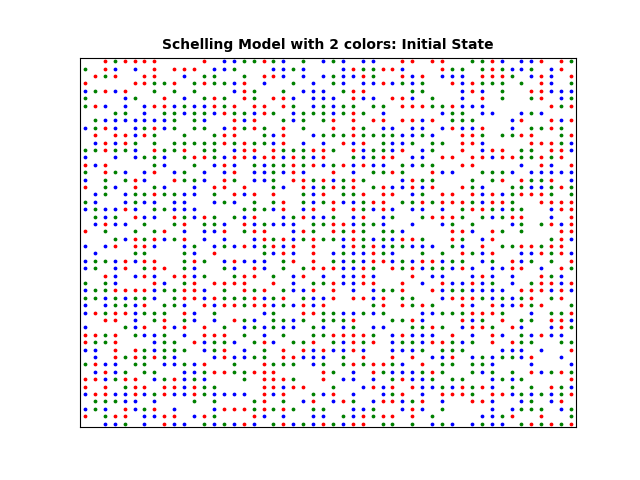
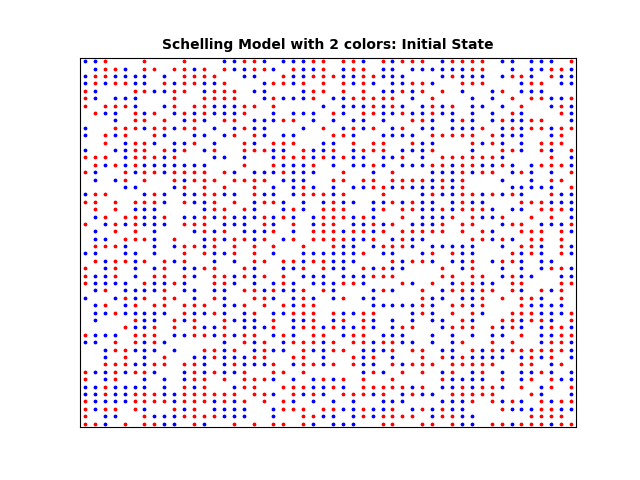
Fixed plots to have multiple colors and just 2 colors

Changed region(s): [[0.125, 0.125, 0.9062, 0.9062]]

diff --git a/Segregation.py b/Segregation.py
@@ -24,28 +24,26 @@ class Schelling:
         self.n_iterations = n_iterations
 
     def populate(self):
-        self.empty_houses = []
-        self.agents = {}
-        print("Populate ", self.width, self.height)
-        self.all_houses = list(itertools.product(range(self.width), range(self.height)))
-        print(self.all_houses)
-        random.shuffle(self.all_houses)
+            self.empty_houses = []
+            self.agents = {}
+            print("Populate ", self.width, self.height)
+            self.all_houses = list(itertools.product(range(self.width), range(self.height)))
+            print(self.all_houses)
+            random.shuffle(self.all_houses)
 
-        self.n_empty = int(self.empty_ratio * len(self.all_houses))
-        self.empty_houses = self.all_houses[:self.n_empty]
+            self.n_empty = int(self.empty_ratio * len(self.all_houses))
+            self.empty_houses = self.all_houses[:self.n_empty]
 
-        self.remaining_houses = self.all_houses[self.n_empty:]
-        houses_by_color = [self.remaining_houses[i::self.colors] for i in range(self.colors)]
-        print("Houses by color ", houses_by_color[0])
-        for i in range(self.colors):
-            # create agents for each color
-            dict2 = dict(zip(houses_by_color[i], [i + 1] * len(houses_by_color[i])))
-            self.agents = {**self.agents, **dict2}
-        print("dictionary", self.agents)
+            self.remaining_houses = self.all_houses[self.n_empty:]
+            houses_by_color = [self.remaining_houses[i::self.colors] for i in range(self.colors)]
+            print("Houses by color ", houses_by_color[0])
+            for i in range(self.colors):
+                # create agents for each color
+                dict2 = dict(zip(houses_by_color[i], [i + 1] * len(houses_by_color[i])))
+                self.agents = {**self.agents, **dict2}
+            print("dictionary", self.agents)
 
     def is_unsatisfied(self, x, y):
-        if (x, y) not in self.agents:
-            return False
 
         myColor = self.agents[(x, y)]
         count_similar = 0
@@ -97,91 +95,26 @@ class Schelling:
             return False
         else:
             return float(count_similar) / (count_similar + count_different) < color_threshold
-
-    def get_neighbors(self, x, y):
-        neighbors = [
-            (x - 1, y - 1), (x, y - 1), (x + 1, y - 1),
-            (x - 1, y),                 (x + 1, y),
-            (x - 1, y + 1), (x, y + 1), (x + 1, y + 1)
-        ]
-
-        return [(nx, ny) for nx, ny in neighbors if 0 <= nx < self.width and 0 <= ny < self.height]
-
-    def try_location_swap(self, agent1, agent2):
-        x1, y1 = agent1
-        x2, y2 = agent2
-        color1 = self.agents[agent1]
-        color2 = self.agents[agent2]
-
-        # Check if swapping is beneficial for both agents
-        similarity_before = self.calculate_similarity(x1, y1)
-        similarity_before += self.calculate_similarity(x2, y2)
-
-        # Swap the agents
-        self.agents[agent1] = color2
-        self.agents[agent2] = color1
-
-        # Check if swapping is beneficial for both agents after the swap
-        similarity_after = self.calculate_similarity(x1, y1)
-        similarity_after += self.calculate_similarity(x2, y2)
-
-        # If swapping is not beneficial for both agents, revert the swap
-        if similarity_after < similarity_before:
-            self.agents[agent1] = color1
-            self.agents[agent2] = color2
-
     
-    def move_locations(self, similarity_threshold=1e-3, consecutive_iterations_threshold=2, max_swap_attempts=10):
+    def move_locations(self):
         total_distance = 0
-        prev_similarity = 0.0
-        consecutive_iterations = 0
-        
-
         for i in range(self.n_iterations):
             self.old_agents = copy.deepcopy(self.agents)
             n_changes = 0
             for agent in self.old_agents:
-                swap_attempts = 0
-
-                while swap_attempts < max_swap_attempts and self.is_unsatisfied(agent[0], agent[1]):
+                if self.is_unsatisfied(agent[0], agent[1]):
                     agent_color = self.agents[agent]
                     empty_house = random.choice(self.empty_houses)
-
-                    # Try to improve current location by swapping with another agent
-                    neighbors = self.get_neighbors(agent[0], agent[1])
-                    for neighbor in neighbors:
-                        if self.is_unsatisfied(neighbor[0], neighbor[1]):
-                            self.try_location_swap(agent, neighbor)
-                            n_changes += 1
-                            break  # Break after the first successful swap
-
-                    # If no improvement, move to an empty house
-                    if agent in self.agents:
-                        del self.agents[agent]
                     self.agents[empty_house] = agent_color
+                    del self.agents[agent]
                     self.empty_houses.remove(empty_house)
                     self.empty_houses.append(agent)
                     total_distance += abs(empty_house[0] - agent[0]) + abs(empty_house[1] - agent[1])
                     n_changes += 1
 
-                    swap_attempts += 1
-
-            similarity_percentage = self.calculate_similarity(agent[0], agent[1]) * 100
+            similarity_percentage = self.calculate_similarity() * 100
             print('Iteration: %d, Similarity Percentage: %3.2f%%, Number of changes: %d, total distance: %d' % (
                 i + 1, similarity_percentage, n_changes, total_distance))
-
-            # Stopping condition based on little progress
-            similarity_change = abs(similarity_percentage - prev_similarity)
-            if similarity_change < similarity_threshold:
-                consecutive_iterations += 1
-            else:
-                consecutive_iterations = 0
-
-            if consecutive_iterations >= consecutive_iterations_threshold:
-                print(f'Stopping early. Little progress for {consecutive_iterations_threshold} consecutive iterations.')
-                break
-
-            prev_similarity = similarity_percentage
 
             if n_changes == 0:
                 break
@@ -189,12 +122,11 @@ class Schelling:
 
     def plot(self, title, file_name):
         fig, ax = plt.subplots()
-        agent_colors = {
-            1: 'b', 2: 'r', 3: 'g', 4: 'c', 5: 'm', 6: 'y', 7: 'k', 8: 'orange', 9: 'purple'  # Add more colors here
-        }
-        marker_size = 150 / self.width
+        # If you want to run the simulation with more than 7 colors, you should set agent_colors accordingly
+        agent_colors = {1: 'b', 2: 'r', 3: 'g', 4: 'c', 5: 'm', 6: 'y', 7: 'k', 8: 'orange', 9: 'purple'}
+        marker_size = 150/self.width  # no logic here, I just played around with it
         for agent in self.agents:
-            ax.scatter(agent[0] + 0.5, agent[1] + 0.5, s=marker_size, color=agent_colors[self.agents[agent]])
+            ax.scatter(agent[0] + 0.5, agent[1] + 0.5,s=marker_size, color=agent_colors[self.agents[agent]])
 
         ax.set_title(title, fontsize=10, fontweight='bold')
         ax.set_xlim([0, self.width])
@@ -203,81 +135,94 @@ class Schelling:
         ax.set_yticks([])
         plt.savefig(file_name)
 
-    def calculate_similarity(self, x, y):
-        count_similar = 0
-        count_different = 0
-        color = self.agents.get((x, y))
-
-        if color is not None:
-            for (agent_x, agent_y), agent_color in self.agents.items():
-                if (agent_x, agent_y) != (x, y):
-                    if (agent_x - 1, agent_y - 1) not in self.empty_houses and self.agents.get((agent_x - 1, agent_y - 1)) == color:
-                        count_similar += 1
-                    elif (agent_x - 1, agent_y - 1) not in self.empty_houses and self.agents.get((agent_x - 1, agent_y - 1)) != color:
-                        count_different += 1
-                if y > 0 and (x, y - 1) not in self.empty_houses:
-                    if self.agents[(x, y - 1)] == color:
-                        count_similar += 1
-                    else:
-                        count_different += 1
-                if x < (self.width - 1) and y > 0 and (x + 1, y - 1) not in self.empty_houses:
-                    if self.agents[(x + 1, y - 1)] == color:
-                        count_similar += 1
-                    else:
-                        count_different += 1
-                if x > 0 and (x - 1, y) not in self.empty_houses:
-                    if self.agents[(x - 1, y)] == color:
-                        count_similar += 1
-                    else:
-                        count_different += 1
-                if x < (self.width - 1) and (x + 1, y) not in self.empty_houses:
-                    if self.agents[(x + 1, y)] == color:
-                        count_similar += 1
-                    else:
-                        count_different += 1
-                if x > 0 and y < (self.height - 1) and (x - 1, y + 1) not in self.empty_houses:
-                    if self.agents[(x - 1, y + 1)] == color:
-                        count_similar += 1
-                    else:
-                        count_different += 1
-                if x > 0 and y < (self.height - 1) and (x, y + 1) not in self.empty_houses:
-                    if self.agents[(x, y + 1)] == color:
-                        count_similar += 1
-                    else:
-                        count_different += 1
-                if x < (self.width - 1) and y < (self.height - 1) and (x + 1, y + 1) not in self.empty_houses:
-                    if self.agents[(x + 1, y + 1)] == color:
-                        count_similar += 1
-                    else:
-                        count_different += 1
+    def calculate_similarity(self):
+        similarity = []
+        for agent in self.agents:
+            count_similar = 0
+            count_different = 0
+            x = agent[0]
+            y = agent[1]
+            color = self.agents[(x, y)]
+            if x > 0 and y > 0 and (x - 1, y - 1) not in self.empty_houses:
+                if self.agents[(x - 1, y - 1)] == color:
+                    count_similar += 1
+                else:
+                    count_different += 1
+            if y > 0 and (x, y - 1) not in self.empty_houses:
+                if self.agents[(x, y - 1)] == color:
+                    count_similar += 1
+                else:
+                    count_different += 1
+            if x < (self.width - 1) and y > 0 and (x + 1, y - 1) not in self.empty_houses:
+                if self.agents[(x + 1, y - 1)] == color:
+                    count_similar += 1
+                else:
+                    count_different += 1
+            if x > 0 and (x - 1, y) not in self.empty_houses:
+                if self.agents[(x - 1, y)] == color:
+                    count_similar += 1
+                else:
+                    count_different += 1
+            if x < (self.width - 1) and (x + 1, y) not in self.empty_houses:
+                if self.agents[(x + 1, y)] == color:
+                    count_similar += 1
+                else:
+                    count_different += 1
+            if x > 0 and y < (self.height - 1) and (x - 1, y + 1) not in self.empty_houses:
+                if self.agents[(x - 1, y + 1)] == color:
+                    count_similar += 1
+                else:
+                    count_different += 1
+            if x > 0 and y < (self.height - 1) and (x, y + 1) not in self.empty_houses:
+                if self.agents[(x, y + 1)] == color:
+                    count_similar += 1
+                else:
+                    count_different += 1
+            if x < (self.width - 1) and y < (self.height - 1) and (x + 1, y + 1) not in self.empty_houses:
+                if self.agents[(x + 1, y + 1)] == color:
+                    count_similar += 1
+                else:
+                    count_different += 1
             try:
-                return float(count_similar) / (count_similar + count_different)
-            except ZeroDivisionError:
-                return 1
-        else:
-            return 0
+                similarity.append(float(count_similar) / (count_similar + count_different))
+            except:
+                similarity.append(1)
+        return sum(similarity) / len(similarity)
 
 
 def main():
     ##Starter Simulation
-    schelling_0 = Schelling(5, 5, 0.3, {1: 0.3, 2: 0.3}, 200, 2)
+    schelling_0 = Schelling(5, 5, 0.3, {1: 0.3, 2: 0.3}, 200, 2)  # Example with different thresholds for each color
     schelling_0.populate()
 
     ##First Simulation
-    schelling_1 = Schelling(50, 50, 0.3, {1: 0.3, 2: 0.3, 3: 0.4}, 200, 3)  # Example with 3 colors and different thresholds
+    schelling_1 = Schelling(50, 50, 0.3, {1: 0.3, 2: 0.3}, 200, 2)
     schelling_1.populate()
 
-    schelling_2 = Schelling(50, 50, 0.3, {1: 0.3, 2: 0.5, 3: 0.2}, 200, 3)  # Example with 3 colors and different thresholds
+    schelling_2 = Schelling(50, 50, 0.3, {1: 0.3, 2: 0.5}, 200, 2)
     schelling_2.populate()
 
     schelling_3 = Schelling(50, 50, 0.3, {1: 0.3, 2: 0.8}, 200, 2)
     schelling_3.populate()
 
+    schelling_0_with_3_colors = Schelling(5, 5, 0.3, {1: 0.3, 2: 0.3, 3: 0.3}, 200, 3)
+    schelling_0_with_3_colors.populate()
+
+    schelling_1_with_3_colors = Schelling(50, 50, 0.3, {1: 0.3, 2: 0.3, 3: 0.4}, 200, 3)
+    schelling_1_with_3_colors.populate()
+
+    schelling_2_with_3_colors = Schelling(50, 50, 0.3, {1: 0.3, 2: 0.5, 3: 0.2}, 200, 3)
+    schelling_2_with_3_colors.populate()
+    
     schelling_1.plot('Schelling Model with 2 colors: Initial State', 'schelling_2_initial.png')
+    schelling_1_with_3_colors.plot('Schelling Model with 3 colors: Initial State', 'schelling_2_color_initial.png')
 
     schelling_0.move_locations()
     schelling_1.move_locations()
     schelling_2.move_locations()
+    schelling_0_with_3_colors.move_locations()
+    schelling_1_with_3_colors.move_locations()
+    schelling_2_with_3_colors.move_locations()
     schelling_3.move_locations()
     schelling_0.plot('Schelling Model with 2 colors: Final State with Happiness Threshold 30%',
                      'schelling_0_30_final.png')
@@ -287,6 +232,12 @@ def main():
                      'schelling_50_final.png')
     schelling_3.plot('Schelling Model with 2 colors: Final State with Happiness Threshold 80%',
                      'schelling_80_final.png')
+    schelling_0_with_3_colors.plot('Schelling Model with 3 colors: Final State with Happiness Threshold 30%',
+                     'schelling_0_30_color_final.png')
+    schelling_1_with_3_colors.plot('Schelling Model with 3 colors: Final State with Happiness Threshold 30%',
+                     'schelling_30_color_final.png')
+    schelling_2_with_3_colors.plot('Schelling Model with 3 colors: Final State with Happiness Threshold 50%',
+                     'schelling_50_color_final.png')
 
 
 if __name__ == "__main__":
